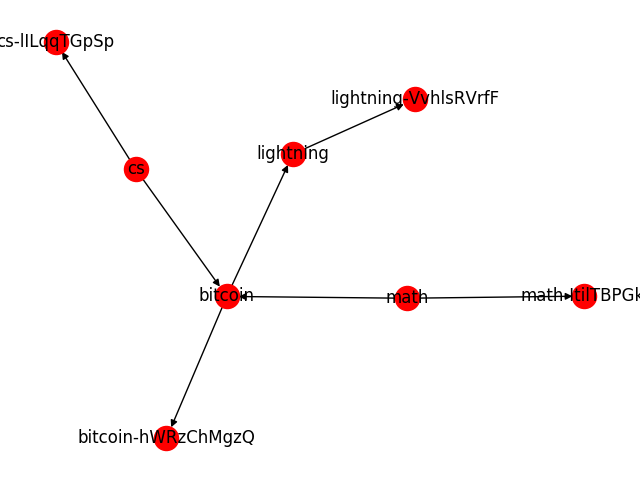
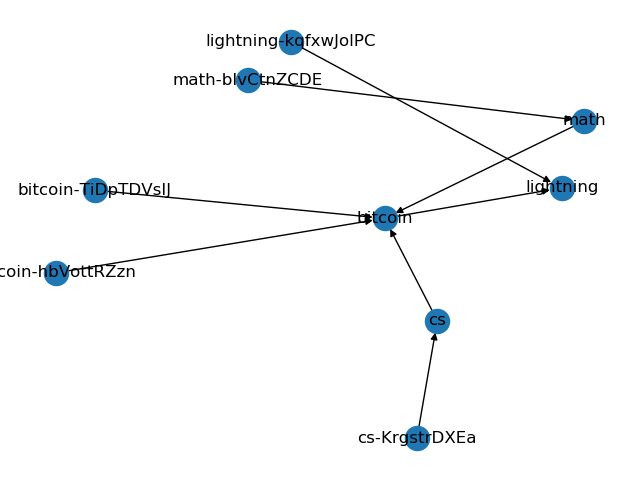
huge changes

diff --git a/index.html b/index.html
@@ -1,0 +1,121 @@
+<!DOCTYPE>
+
+<html>
+
+  <head>
+    <title>cytoscape-dagre.js demo</title>
+
+    <meta name="viewport" content="width=device-width, user-scalable=no, initial-scale=1, maximum-scale=1">
+
+    <script src="https://unpkg.com/cytoscape/dist/cytoscape.min.js"></script>
+    <script src="https://cdn.rawgit.com/cpettitt/dagre/v0.7.4/dist/dagre.min.js"></script>
+    <script src="https://cdn.rawgit.com/cytoscape/cytoscape.js-dagre/1.5.0/cytoscape-dagre.js"></script>
+    <script src="https://ajax.googleapis.com/ajax/libs/jquery/3.4.1/jquery.min.js"></script>
+
+    <!-- for testing with local version of cytoscape.js -->
+    <!--<script src="../cytoscape.js/build/cytoscape.js"></script>-->
+
+    <!-- Local data file -->
+    <script type="text/javascript" language="javascript" src="graph.json"></script> 
+
+
+    <style>
+      body {
+        font-family: helvetica;
+        font-size: 14px;
+      }
+
+      #cy {
+        width: 100%;
+        height: 100%;
+        position: absolute;
+        left: 0;
+        top: 0;
+        z-index: 999;
+      }
+
+      h1 {
+        opacity: 0.5;
+        font-size: 1em;
+      }
+    </style>
+
+    <script>
+
+    function readTextFile(file, callback) {
+        var rawFile = new XMLHttpRequest();
+        rawFile.overrideMimeType("application/json");
+        rawFile.open("GET", file, true);
+        rawFile.onreadystatechange = function() {
+            if (rawFile.readyState === 4 && rawFile.status == "200") {
+                callback(rawFile.responseText);
+            }
+        }
+        rawFile.send(null);
+    }
+
+    var graphData = 'fakedata'
+    readTextFile("graph.json", function(text){
+        graphData = JSON.parse(text);
+        // change the data format to what cytoscape wants
+        var nodes = []
+        for (var i = 0; i < graphData.nodes.length; i++){
+            nodes[i] = {"data": graphData.nodes[i]}
+        }
+        console.log(nodes)
+        var edges = []
+        for (var i = 0; i < graphData.links.length; i++) {
+            edges[i] = {"data": graphData.links[i]}
+        }
+        console.log(edges)
+
+        var cy = window.cy = cytoscape({
+          container: document.getElementById('cy'),
+
+          boxSelectionEnabled: false,
+          autounselectify: true,
+
+          layout: {
+            name: 'dagre'
+          },
+
+          style: [
+            {
+              selector: 'node',
+              style: {
+                'background-color': '#11479e',
+                'content': 'data(id)'
+              }
+            },
+
+            {
+              selector: 'edge',
+              style: {
+                'width': 4,
+                'target-arrow-shape': 'triangle',
+                'line-color': '#9dbaea',
+                'target-arrow-color': '#9dbaea',
+                'curve-style': 'bezier'
+              }
+            }
+          ],
+
+          elements: {
+            nodes: nodes,
+            edges: edges
+          }
+        });
+
+    });
+
+    </script>
+  </head>
+
+  <body>
+    <h1>cytoscape-dagre demo</h1>
+
+    <div id="cy"></div>
+
+  </body>
+
+</html>

diff --git a/iok.py b/iok.py
@@ -22,8 +22,13 @@ class ResourceType(IntEnum):
 
 class KnowledgeGraph:
 
-    def __init__(self, filename=FILENAME):
+    def __init__(self, filename=FILENAME, debug=False):
         # get from file 
+        if debug:
+            logger.debug("Creating new graph in debug mode...")
+            self.graph = nx.DiGraph()
+            return
+
         try:
             logger.info("Trying to read graph from {}".format(filename))
             self.read_from_file(filename)
@@ -68,23 +73,40 @@ class KnowledgeGraph:
         """Generate a resource name randomly. Don't want to be able to get it directly"""
         return name + '-' + random_string(10)
 
-    def add_description_by_name(self, name: str, desc: str):
+
+    def add_description(self, name: str, desc: str):
         """Adds a description node by name of parent"""
         self.__assert_topic_exists(name, 
-           "Cannot delete, topic {} does not exist".format(name))
+           "Cannot add, topic {} does not exist".format(name))
         desc_name = self.__gen_resource_name(name)
-        self.graph.add_node(desc_name)
-        self.graph.nodes[desc_name]['text'] = desc
-        self.graph.nodes[desc_name]['node_type'] = NodeType.RESOURCE
-        self.graph.nodes[desc_name]['resource_type'] = ResourceType.DESCRIPTION
-        self.graph.add_edge(name, desc_name)
+        self.add_knowledge_node(desc_name, NodeType.RESOURCE, desc, ResourceType.DESCRIPTION)
+        self.graph.add_edge(desc_name, name)
+
+
+    def add_link(self, name, link, type: ResourceType):
+        """Adds a link by name of parent"""
+        self.__assert_topic_exists(name, 
+           "Cannot add, topic {} does not exist".format(name))
+        link_name = self.__gen_resource_name(name)
+        self.add_knowledge_node(link_name, NodeType.RESOURCE, link, type)
+        self.graph.add_edge(link_name, name)
+
+
+    def add_knowledge_node(self, name: str, node_type: NodeType, data=None, resource_type: ResourceType=None):
+        self.graph.add_node(name)
+        node = self.graph.nodes[name]
+        node['node_type'] = node_type
+        if data:
+            node['data'] = data
+        if resource_type:
+            node['resource_type'] = resource_type
+
 
     def add_topic(self, name: str, desc: str, parents=[], children=[]):
         # TODO: decide whether parents/children are topics or resources or both
         self.__assert_topic_exists(name, exists=False,
             err="Cannot add, topic {} already exists".format(name))
-        self.graph.add_node(name)
-        self.graph.nodes[name]['node_type'] = NodeType.TOPIC
+        self.add_knowledge_node(name, NodeType.TOPIC)
         for parent in parents:
             self.__assert_topic_exists(name,
                 "Parent {} does not exist".format(parent))
@@ -93,7 +115,7 @@ class KnowledgeGraph:
             self.__assert_topic_exists(name,
                 "Child {} does not exist".format(child))
             self.graph.add_edge(name, child)
-        self.add_description_by_name(name, desc)
+        self.add_description(name, desc)
 
     def delete_topic(self, name: str):
         self.__assert_topic_exists(name, False, 
@@ -114,25 +136,64 @@ class AwesomeClient():
 
     def build_map(self):
         """Parses the graph and builds a map"""
-        """TODO: we should build this in topological order"""
+        logger.debug("Building map")
         dic = {}  # XXX: throw it into dict so we can sort it later??
-        for name in nx.topological_sort(self.knowledge.graph):
+        for name in list(reversed(list(nx.topological_sort(self.knowledge.graph)))):
             node = self.knowledge.graph.nodes[name]
             if node['node_type'] == NodeType.TOPIC: # if sorted, topics always before resources
                 dic[name] = {'name': name}  # XXX: a placeholder
+                dic[name]['papers'] = []
+                dic[name]['videos'] = []
+                dic[name]['articles'] = []
+                dic[name]['descriptions'] = []
+                logger.debug(f"Added topic to map: {name}")
             else:  # NodeType.RESOURCE
                 # put it in parents
-                for parent in self.knowledge.graph.predecessors(name):
-                    dic[parent]['description'] = node['text']  # XXX: only desc for now
+                logger.debug("Adding resource {}".format(name))
+                for parent in self.knowledge.graph.successors(name):
+                    logger.debug(f"{name} has parent {parent}")
+                    dat = node['data']  # XXX: only desc for now
+                    # articles, papers,
+                    t = node['resource_type']
+                    logger.debug("Building map for type {}".format(t))
+
+                    if t == ResourceType.PAPER:
+                        dic[parent]['papers'].append(dat)
+                        logger.debug("Adding paper")
+                    elif t == ResourceType.VIDEO:
+                        dic[parent]['videos'].append(dat)
+                        logger.debug("Adding video")
+                    elif t == ResourceType.ARTICLE:
+                        dic[parent]['articles'].append(dat)
+                        logger.debug("Adding articles")
+                    elif t == ResourceType.DESCRIPTION:
+                        dic[parent]['descriptions'].append(dat)
+                        logger.debug("Adding description")
+
 
         self.mindmap = dic
         return dic
+
+    def getMarkdownLink(self, link):
+        # TODO: get separate alt text
+        return f'[{link}]({link})\n\n' 
     
     def build_str(self):
         s = ''
         for key in self.mindmap:
             s += '# {}\n\n'.format(key)
-            s += '{}\n\n'.format(self.mindmap[key]['description'])
+            s += '## Description\n\n'
+            for x in self.mindmap[key]['descriptions']:
+                s += f'{x}\n\n'
+            s += '## Papers\n\n'
+            for x in self.mindmap[key]['papers']:
+                s += self.getMarkdownLink(x)
+            s += '## Articles\n\n'
+            for x in self.mindmap[key]['articles']:
+                s += self.getMarkdownLink(x)
+            s += '## Papers\n\n'
+            for x in self.mindmap[key]['videos']:
+                s += self.getMarkdownLink(x)
         return s
 
     def write_to_file(self, filename=AWESOME_FILE):

diff --git a/iok_client.py b/iok_client.py
@@ -1,15 +1,22 @@
 #!/usr/bin/env python3
 
-from iok import AwesomeClient, KnowledgeGraph
+from iok import AwesomeClient, KnowledgeGraph, ResourceType
 
 import networkx as nx
+import argparse
+
+parser = argparse.ArgumentParser(description='IoK client arg parser')
+parser.add_argument('--debug', action='store_true')
+
+args = parser.parse_args()
 
 try:
-    g = KnowledgeGraph()
+    g = KnowledgeGraph(debug=args.debug)
     g.add_topic('math', 'mathematics is everything')
     g.add_topic('cs', 'computation and stuff')
     g.add_topic('lightning', 'l2 stuff')
     g.add_topic('bitcoin', 'p2p cash system', parents=['math', 'cs'], children=['lightning'])
+    g.add_link('bitcoin', 'https://bitcoin.org/bitcoin.pdf', ResourceType.PAPER)
     g.write_to_file()
     print(g.get_graph().nodes)
 except:

diff --git a/logger.py b/logger.py
@@ -9,6 +9,6 @@ logger.setLevel(logging.DEBUG)
 
 # Add the log message handler to the logger
 handler = logging.handlers.RotatingFileHandler(
-              LOG_FILENAME, maxBytes=20, backupCount=5)
+              LOG_FILENAME, maxBytes=10000, backupCount=5)
 
 logger.addHandler(handler)

diff --git a/README.md b/README.md
@@ -3,3 +3,11 @@
 Index of Knowledge (IoK) is a curated collection of resources for blockchain, grouped by topic and topologically ordered by pedagogical dependency. From reading through the list of resources for a topic and its dependencies, a user should be fully informed and caught up with the current cutting edge.
 
 Currently working to support graph visualization and awesome-list clients.
+
+## USAGE
+
+To debug, run a local webserver to serve the current directory. This allows the web interface to grab the generated json.
+
+```
+python3 -m http.server
+```

diff --git a/awesome-blockchain.md b/awesome-blockchain.md
@@ -1,16 +1,50 @@
-# cs
+# lightning
 
-computation and stuff
+## Description
 
-# math
+l2 stuff
 
-mathematics is everything
+## Papers
+
+## Articles
+
+## Papers
 
 # bitcoin
 
+## Description
+
 p2p cash system
 
-# lightning
+## Papers
 
-l2 stuff
+[https://bitcoin.org/bitcoin.pdf](https://bitcoin.org/bitcoin.pdf)
+
+## Articles
+
+## Papers
+
+# math
+
+## Description
+
+mathematics is everything
+
+## Papers
+
+## Articles
+
+## Papers
+
+# cs
+
+## Description
+
+computation and stuff
+
+## Papers
+
+## Articles
+
+## Papers
 
